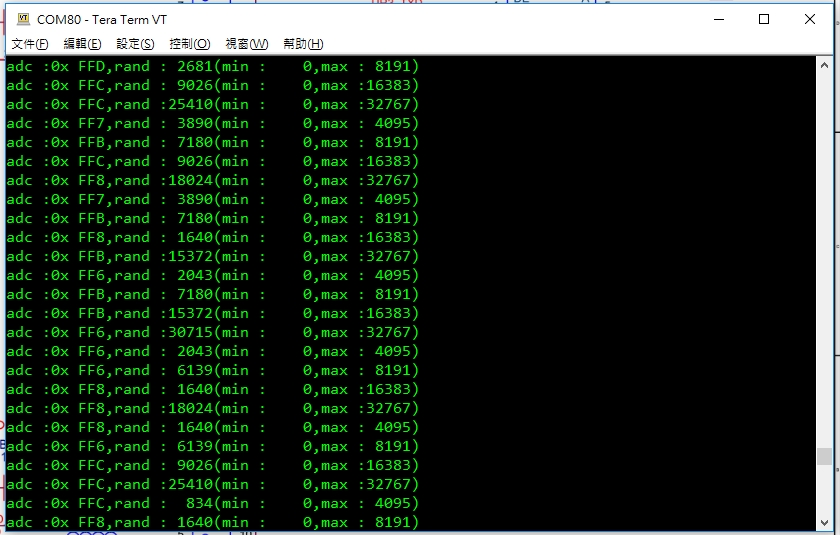
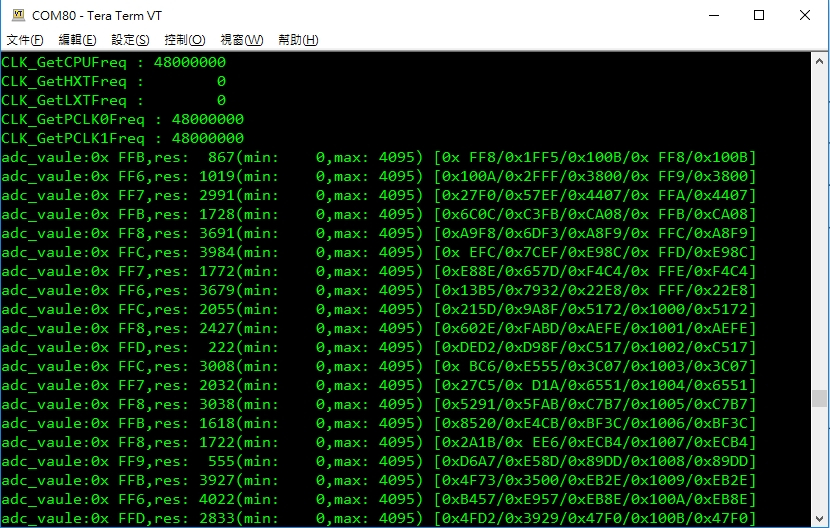
update
update

diff --git a/SampleCode/Template/main.c b/SampleCode/Template/main.c
@@ -36,6 +36,10 @@ enum
 	ADC_CH_DEFAULT 	
 }ADC_CH_TypeDef;
 
+uint16_t za = 0;
+uint16_t zb = 0;
+uint16_t zc = 0;
+uint16_t zx = 0;
 
 /*_____ M A C R O S ________________________________________________________*/
 #define ENABLE_ADC_IRQ
@@ -249,20 +253,43 @@ void ADC_InitChannel(uint8_t ch)
 	#endif
 }
 
+// Fast 0-255 random number generator from http://eternityforest.com/Projects/rng.php:
+uint16_t rng(void)//void uint8_t __attribute__((always_inline)) rng(void)
+{
+    zx++;
+    za = (za^zc^zx);
+    zb = (zb+za);
+    zc = (zc+(zb>>1)^za);
+    return zc;
+}
+
+void prepare_seed(void)
+{
+    za = ADC_ReadChannel(ADC0_CH15); 
+    zb = ADC_ReadChannel(ADC0_CH15); 
+    zc = ADC_ReadChannel(ADC0_CH15); 
+    zx = ADC_ReadChannel(ADC0_CH15);     
+}
+
 uint32_t random(int min, int max)
 {
     uint32_t res= 0;    
     uint32_t length_of_range = 0;
     uint16_t adc_vaule = 0;
+    uint16_t seed = 0;
 
     length_of_range = max - min + 1;
 
     adc_vaule = ADC_ReadChannel(ADC0_CH15); 
-    srand(adc_vaule);
+    seed = rng();
+    srand(seed + adc_vaule);
+
     res = (uint32_t)(rand() % length_of_range + min);
 
     #if 1   // debug
-    printf("adc :0x%4X,rand :%5d(min :%5d,max :%5d)\r\n" ,adc_vaule , res , min , max);
+    printf("adc_vaule:0x%4X,res:%5d(min:%5d,max:%5d) [0x%4X/0x%4X/0x%4X/0x%4X/0x%4X]\r\n" ,
+            adc_vaule , res , min , max , 
+            za , zb ,zc , zx , seed);
     #endif
 
     return res;
@@ -270,6 +297,7 @@ uint32_t random(int min, int max)
 
 void loop(void)
 {
+    static uint16_t counter = 0;
     static uint16_t state = 0;
     uint16_t range_max = 0;
     if (is_flag_set(flag_generate_data))
@@ -295,7 +323,12 @@ void loop(void)
                 random(0 , range_max);
                 break;            
         }
-        state = (state == 4) ? (0) : (state + 1); 
+
+        if (counter++ >= 100)
+        {
+            counter = 0;
+            state = (state == 4) ? (0) : (state + 1); 
+        }        
     }
 }
 
@@ -477,7 +510,8 @@ int main()
     TIMER1_Init();
     // TIMER3_Init();
 
-	ADC_InitChannel(ADC0_CH15);    
+	ADC_InitChannel(ADC0_CH15); 
+    prepare_seed();   
 
     /* Got no where to go, just loop forever */
     while(1)
